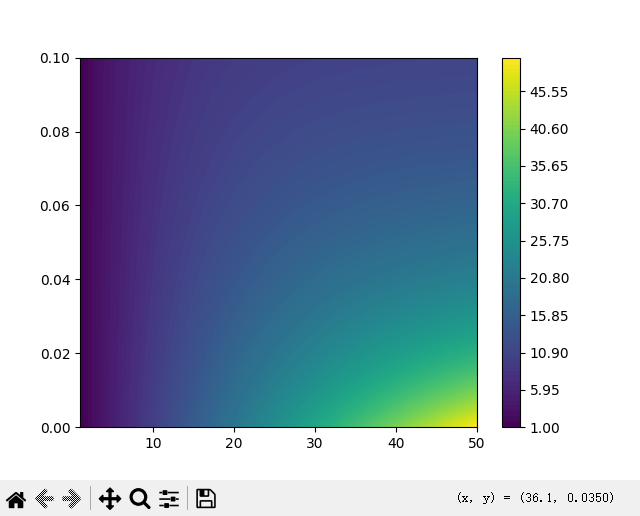
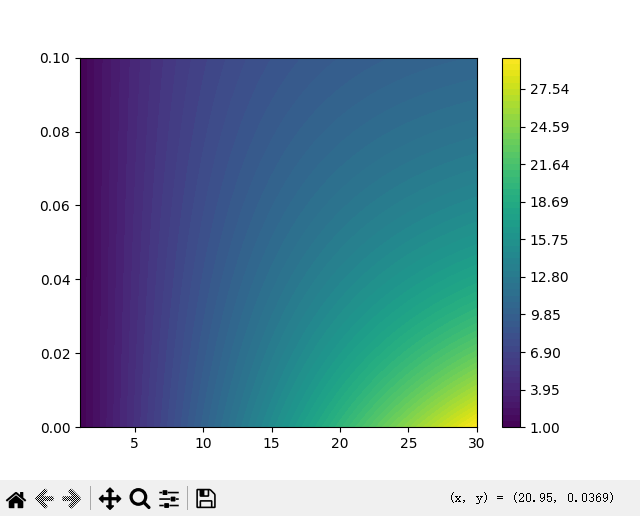
体验优化

diff --git a/duration_risk_heatmap.py b/duration_risk_heatmap.py
@@ -1,0 +1,46 @@
+import numpy as np
+import matplotlib.pyplot as plt
+
+def foo(r, N):
+    w = N / (1 + r) ** (N - 1) 
+    w += np.sum([(i * r) / ((1 + r) ** i) for i in range(1, N)])
+    return w
+
+if __name__ == "__main__":
+    r_range = np.linspace(0, 0.1, 1000)
+    N = 30
+    w = []
+    for r in r_range:
+        w.append([foo(r, n) for n in range(1, N+1)])
+    h_list = []
+    t_list = []
+    q_list = []
+    quantiality = 0.005
+    for n in range(1, N+1):
+        h = 0
+        t = 0
+        q = 0
+        for r in r_range:
+            t_w = foo(r, n)
+            if abs(n / t_w - 2) < quantiality and h == 0:
+                h = r
+                h_list.append(r)
+            elif abs(n / t_w - 3) < quantiality and t == 0:
+                t = r
+                t_list.append(r)
+            elif abs(n / t_w - 4) < quantiality and q == 0:
+                q = r
+                q_list.append(r)
+    hn = len(h_list)
+    tn = len(t_list)
+    qn = len(q_list)
+    h_list = np.array(h_list)
+    t_list = np.array(t_list)
+    q_list = np.array(q_list)
+    w = np.array(w)
+    plt.contourf(np.linspace(1, N, N), r_range, w, levels=np.linspace(1, N, 2 * N))
+    plt.plot(np.linspace(N - hn, N, hn), h_list, 'r')
+    plt.plot(np.linspace(N - tn, N, tn), t_list, 'g')
+    plt.plot(np.linspace(N - qn, N, qn), q_list, 'b')
+    plt.colorbar()
+    plt.show()
